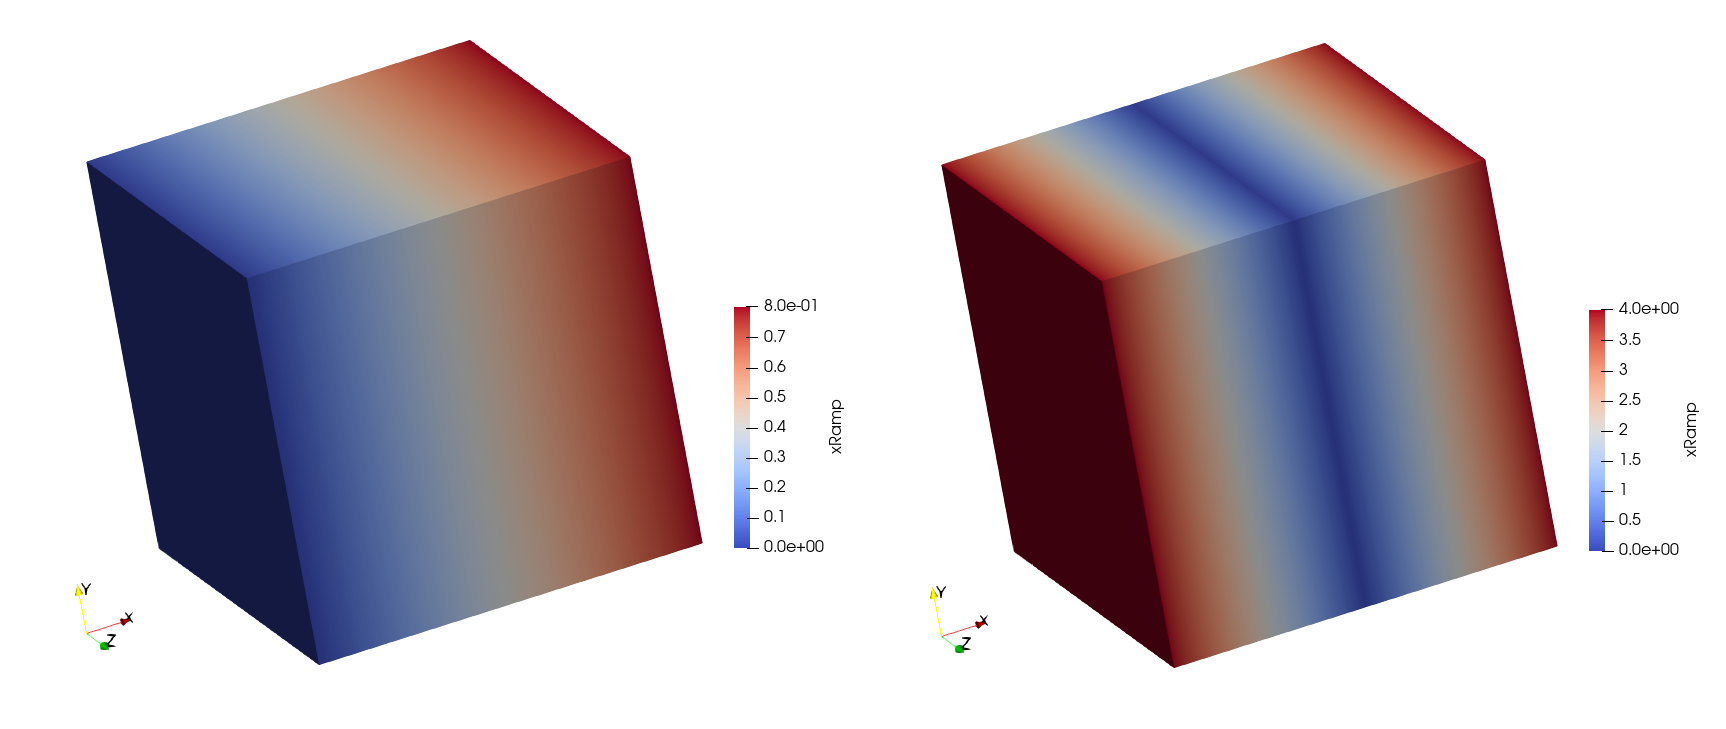
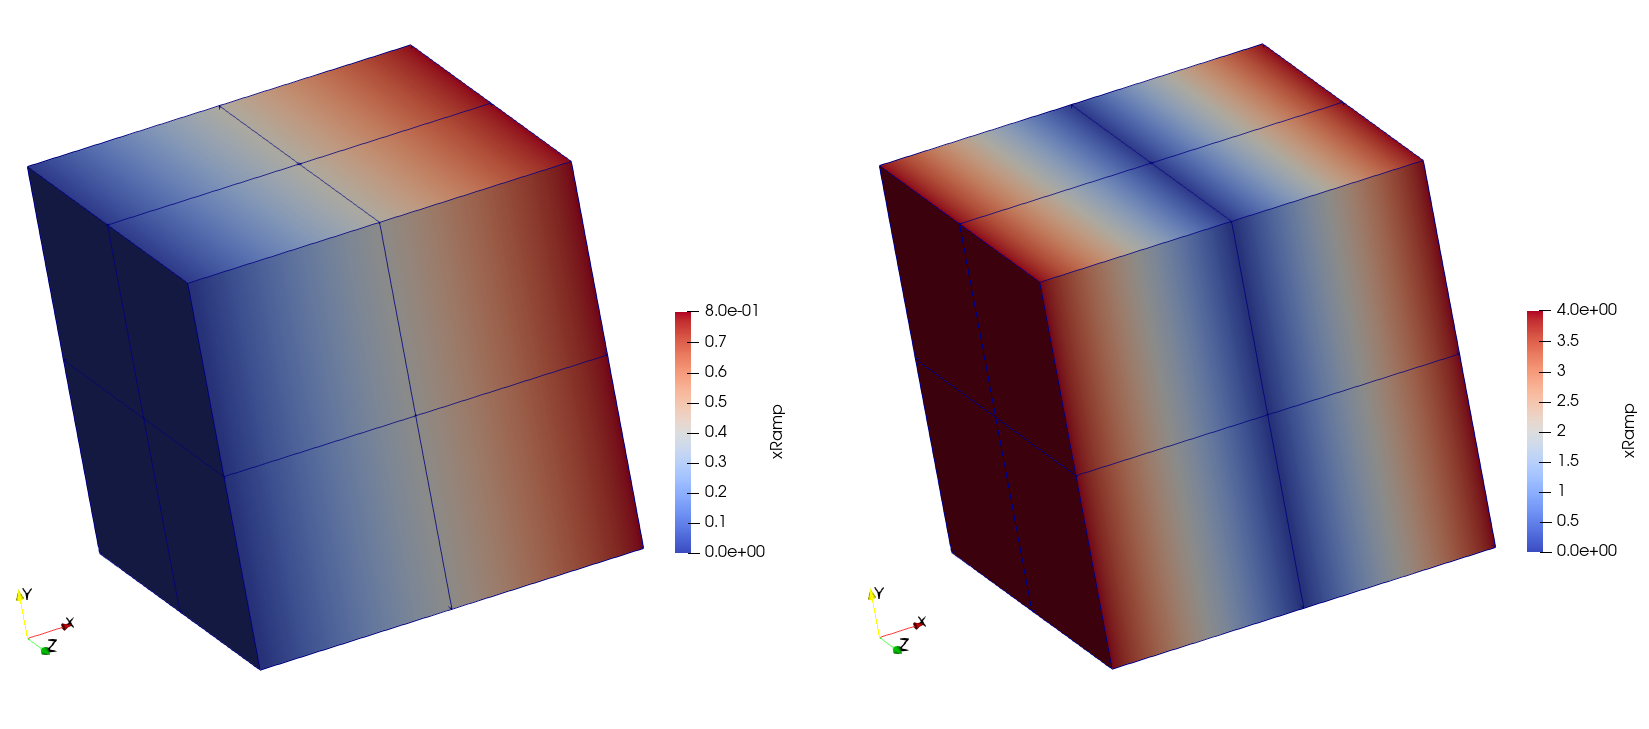
upd

diff --git a/paper.md b/paper.md
@@ -45,10 +45,12 @@ The [VTUFileHandler](https://github.com/baxmittens/VTUFileHandler) will eventual
 2. Operators can only be applied to VTU files with the same topology. The user must ensure that this condition is met.
 3. The data type of numerical fields of the VTU file for which operators should be applied have to be `Float64`.
 
-A three-dimensional quadrilian mesh with 27 points and 8 cells with a linear ramp in x-direction as a result file is used for demonstration.
+A three-dimensional quadrilian mesh with 27 points and 8 cells with a linear ramp in x-direction as a result file is used for demonstration (see \autoref{fig:1}).
 
 # Features
 
 
-![Plots demonstrating the usage of VTUinterface: Deconfinement curve extracted as time series from a PVD file of excavation simulation (left). Contour plot of pressure distribution generated with VTUinterface and matplotlibs `tricontourf()` shows thermal pressurization during the heating phase (right).\label{fig:1}](xramp1.PNG){ width=100% }
+![Cube with initial result field (left). Cube with manipulated result field (right).\label{fig:1}](xramp1.PNG){ width=100% }
+
+
 # References
